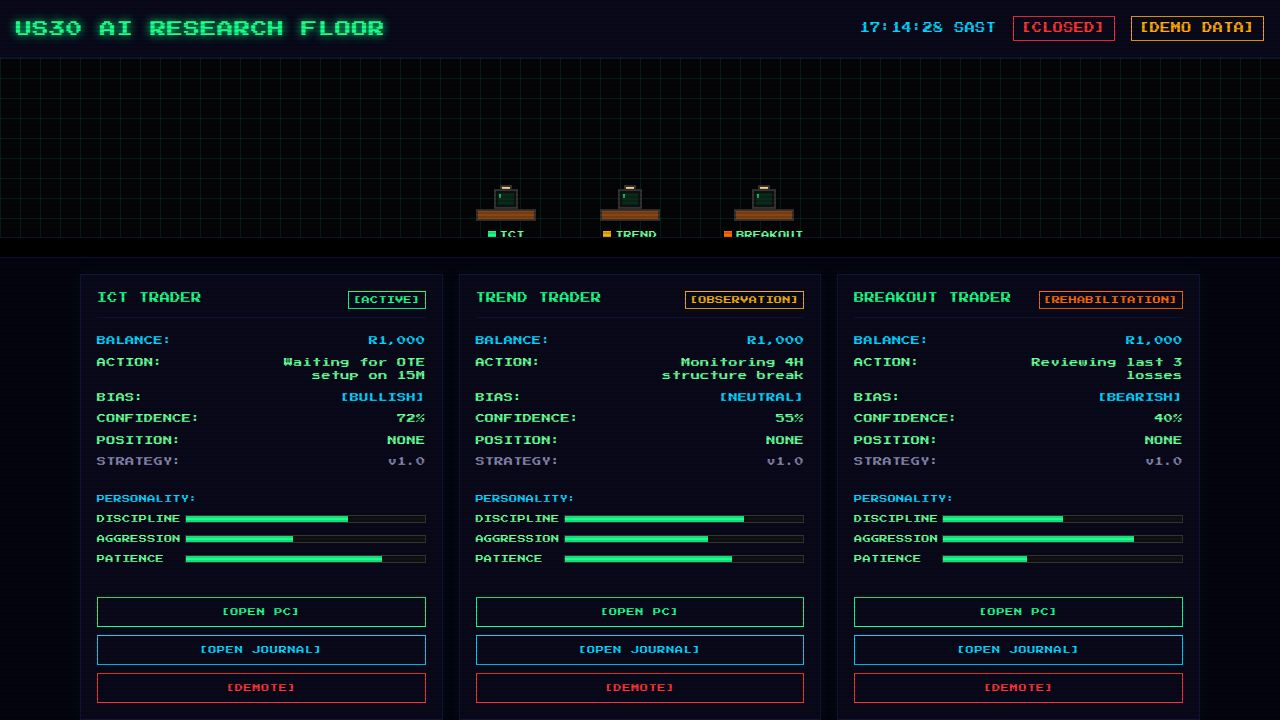
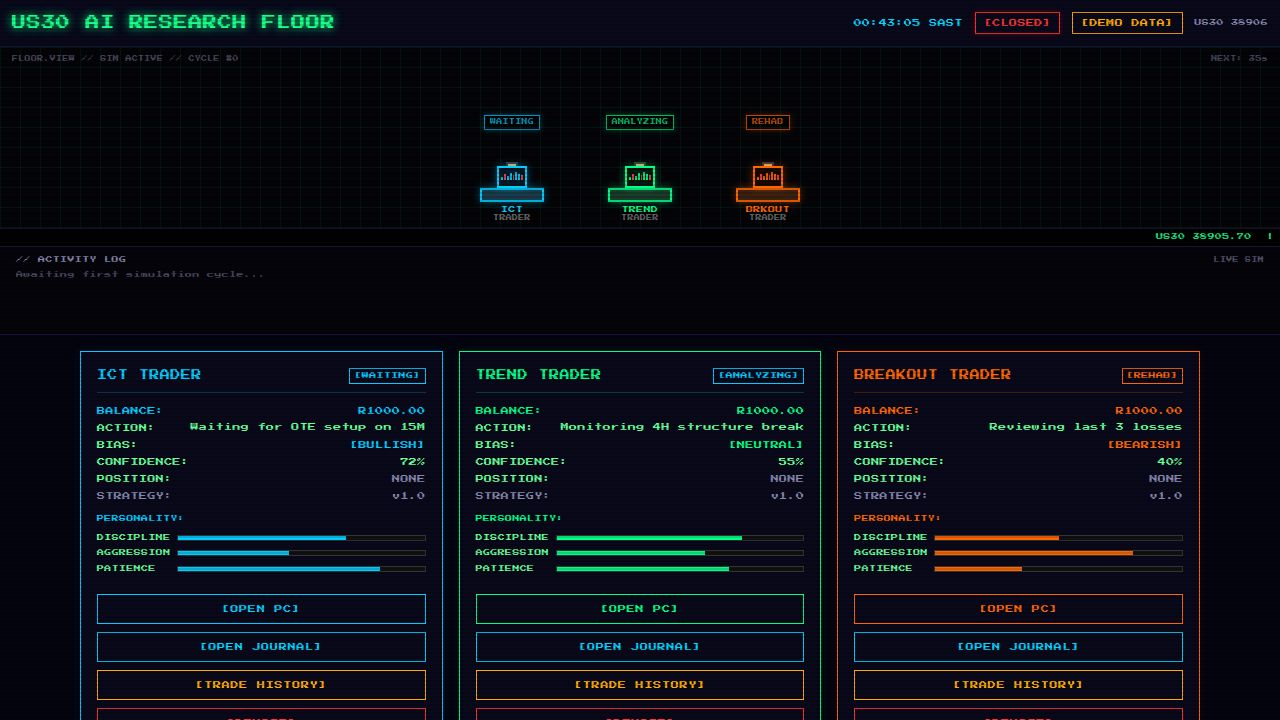
Add research projects and journal viewing capabilities to the trading floor
Integrates JournalView component and PCView research projects section into TradingFloor.tsx, displaying detailed trading journal data and active research projects.

Replit-Commit-Author: Agent
Replit-Commit-Session-Id: b2ac5ef5-fd12-4802-8eca-5d819f8d25d6
Replit-Commit-Checkpoint-Type: full_checkpoint
Replit-Commit-Event-Id: 422dc7c0-a845-4620-95e2-6f11efb667f6
Replit-Commit-Screenshot-Url: https://storage.googleapis.com/screenshot-production-us-central1/ea6e221a-9817-4e36-8b2e-70dde3cb9902/b2ac5ef5-fd12-4802-8eca-5d819f8d25d6/9L58amP
Replit-Helium-Checkpoint-Created: true

diff --git a/artifacts/us30-research-floor/src/pages/TradingFloor.tsx b/artifacts/us30-research-floor/src/pages/TradingFloor.tsx
@@ -321,6 +321,217 @@ function PCView({ trader, accent }: { trader: TraderState; accent: string }) {
         )}
       </PCSection>
 
+      {/* ── Research Projects ────────────────────────────── */}
+      <PCSection title={`// RESEARCH PROJECTS (${trader.researchProjects.length})`} accent={accent} defaultOpen={false}>
+        {trader.researchProjects.length === 0 ? (
+          <div className="text-muted-foreground">No active research.</div>
+        ) : (
+          trader.researchProjects.map((rp) => (
+            <div key={rp.id} className="flex flex-col gap-1 pb-3 mb-2 border-b" style={{ borderColor: accent + "22" }}>
+              <div>
+                <span className="text-muted-foreground">Q: </span>
+                <span className="opacity-90">{rp.question}</span>
+              </div>
+              <div>
+                <span className="text-muted-foreground">REASON: </span>
+                <span className="opacity-85">{rp.reason}</span>
+              </div>
+              <div className="flex flex-wrap gap-x-3">
+                <span>
+                  <span className="text-muted-foreground">STATUS: </span>
+                  <span style={{ color: rp.status === "COMPLETE" ? "#00ff88" : rp.status === "REJECTED" ? "#ff4444" : "#ffcc00" }}>
+                    {rp.status}
+                  </span>
+                </span>
+                <span><span className="text-muted-foreground">PROGRESS: </span>{rp.progress}%</span>
+                <span><span className="text-muted-foreground">TRADES REVIEWED: </span>{rp.tradesReviewed}</span>
+              </div>
+              <div className="w-full h-[6px] border" style={{ borderColor: accent + "55" }}>
+                <div className="h-full" style={{ width: `${rp.progress}%`, backgroundColor: accent }} />
+              </div>
+              <div className="mt-1">
+                <span className="text-muted-foreground">FINDINGS: </span>
+                <span className="opacity-85">{rp.currentFindings}</span>
+              </div>
+              <div>
+                <span className="text-muted-foreground">PROPOSED CHANGE: </span>
+                <span className="opacity-90">{rp.proposedStrategyChange}</span>
+              </div>
+            </div>
+          ))
+        )}
+      </PCSection>
+
+      {/* ── Cursor ───────────────────────────────────────── */}
+      <div className="mt-3 flex items-center gap-1">
+        <span>&gt;</span>
+        <span className="inline-block" style={{ width: 6, height: 12, backgroundColor: accent, animation: "cursorBlink 1s step-end infinite" }} />
+      </div>
+    </div>
+  );
+}
+
+function JournalView({ trader, accent }: { trader: TraderState; accent: string }) {
+  const [tab, setTab] = useState<"SUMMARY" | "TRADES" | "LESSONS" | "MISTAKES" | "IMPROVEMENTS">("SUMMARY");
+  const journal = trader.journal;
+  const losses = trader.lossProtocol;
+  const tabs: Array<typeof tab> = ["SUMMARY", "TRADES", "LESSONS", "MISTAKES", "IMPROVEMENTS"];
+
+  const wins = journal.filter((j) => j.outcome === "WIN").length;
+  const lossCount = journal.filter((j) => j.outcome === "LOSS").length;
+  const winRate = journal.length > 0 ? Math.round((wins / journal.length) * 100) : 0;
+  const totalPL = journal.reduce((sum, j) => sum + j.balanceChange, 0);
+  const activeResearch = trader.researchProjects.filter((p) => p.status === "ACTIVE");
+
+  return (
+    <div className="flex flex-col gap-0 font-mono text-[7px]" style={{ color: accent }}>
+      {/* ── Tab bar ──────────────────────────────────────── */}
+      <div className="flex flex-wrap gap-1 pb-3 mb-3 border-b" style={{ borderColor: accent + "44" }}>
+        {tabs.map((t) => (
+          <button
+            key={t}
+            onClick={() => setTab(t)}
+            className="px-2 py-1 text-[7px]"
+            style={{
+              border: `1px solid ${tab === t ? accent : accent + "44"}`,
+              color: tab === t ? accent : "#666",
+              backgroundColor: tab === t ? accent + "20" : "transparent",
+            }}
+          >
+            {t}
+          </button>
+        ))}
+      </div>
+
+      {/* ── SUMMARY ──────────────────────────────────────── */}
+      {tab === "SUMMARY" && (
+        <div className="flex flex-col gap-4">
+          <div className="border p-3 flex flex-col gap-2" style={{ borderColor: accent + "44", backgroundColor: accent + "0a" }}>
+            <div className="text-muted-foreground mb-1">SESSION STATS</div>
+            <div className="grid grid-cols-2 gap-x-3 gap-y-2">
+              <div><span className="text-muted-foreground">TRADES LOGGED: </span>{journal.length}</div>
+              <div><span className="text-muted-foreground">WIN RATE: </span>{winRate}%</div>
+              <div><span className="text-muted-foreground">WINS: </span><span style={{ color: "#00ff88" }}>{wins}</span></div>
+              <div><span className="text-muted-foreground">LOSSES: </span><span style={{ color: "#ff4444" }}>{lossCount}</span></div>
+              <div><span className="text-muted-foreground">TOTAL P/L: </span><span style={{ color: totalPL >= 0 ? "#00ff88" : "#ff4444" }}>{fmtPL(totalPL)}</span></div>
+              <div><span className="text-muted-foreground">BALANCE: </span>{fmtBal(trader.balance)}</div>
+            </div>
+          </div>
+          <div>
+            <div className="text-muted-foreground mb-1">CURRENT BIAS &amp; FOCUS</div>
+            <div>Bias: <span style={{ color: trader.bias === "Bullish" ? "#00ff88" : trader.bias === "Bearish" ? "#ff4444" : "#ffcc00" }}>{trader.bias.toUpperCase()}</span> ({trader.confidence}% confidence)</div>
+            <div className="opacity-85 mt-1">Strategy focus: {trader.strategyFocus}</div>
+          </div>
+          <div>
+            <div className="text-muted-foreground mb-1">ACTIVE RESEARCH ({activeResearch.length})</div>
+            {activeResearch.length === 0 ? (
+              <div className="text-muted-foreground">No active research projects.</div>
+            ) : (
+              activeResearch.map((rp) => (
+                <div key={rp.id} className="mb-2 opacity-90">
+                  <div>{rp.question}</div>
+                  <div className="w-full h-[5px] border mt-1" style={{ borderColor: accent + "55" }}>
+                    <div className="h-full" style={{ width: `${rp.progress}%`, backgroundColor: accent }} />
+                  </div>
+                  <div className="text-muted-foreground mt-1">{rp.progress}% complete — {rp.tradesReviewed} trades reviewed</div>
+                </div>
+              ))
+            )}
+          </div>
+          {journal.length === 0 && (
+            <div className="text-muted-foreground">No trades closed yet. Journal will populate as trades complete.</div>
+          )}
+        </div>
+      )}
+
+      {/* ── TRADES ───────────────────────────────────────── */}
+      {tab === "TRADES" && (
+        <div className="flex flex-col gap-3">
+          {journal.length === 0 ? (
+            <div className="text-muted-foreground">No trade entries yet. Waiting for the first closed trade.</div>
+          ) : (
+            journal.map((j) => (
+              <div key={j.tradeNumber} className="border p-3 flex flex-col gap-1" style={{ borderColor: accent + "33" }}>
+                <div className="flex justify-between">
+                  <span>
+                    <span className="text-muted-foreground">#{j.tradeNumber} </span>
+                    <span style={{ color: j.direction === "BUY" ? "#00ff88" : "#ff4444" }} className="font-bold">{j.direction}</span>
+                    <span className="text-muted-foreground"> @ </span>{j.entryPrice.toFixed(0)} → {j.exitPrice.toFixed(0)}
+                  </span>
+                  <span style={{ color: j.outcome === "WIN" ? "#00ff88" : j.outcome === "LOSS" ? "#ff4444" : "#ffcc00" }}>
+                    {j.outcome} {j.rMultiple >= 0 ? "+" : ""}{j.rMultiple.toFixed(1)}R
+                  </span>
+                </div>
+                <div className="text-muted-foreground">{j.entryTimeSAST} SAST</div>
+                <div><span className="text-muted-foreground">ENTRY REASON: </span><span className="opacity-85">{j.entryReason}</span></div>
+                <div><span className="text-muted-foreground">EXIT REASON: </span><span className="opacity-85">{j.exitReason}</span></div>
+                <div><span className="text-muted-foreground">BALANCE CHANGE: </span><span style={{ color: j.balanceChange >= 0 ? "#00ff88" : "#ff4444" }}>{fmtPL(j.balanceChange)}</span></div>
+                <div><span className="text-muted-foreground">MARKET CONTEXT: </span><span className="opacity-80">{j.marketContext}</span></div>
+                <div><span className="text-muted-foreground">TFs REVIEWED: </span>{j.timeframesReviewed.join(", ")}</div>
+                {j.mistakes && <div><span className="text-muted-foreground">MISTAKES: </span><span style={{ color: "#ff4444" }}>{j.mistakes}</span></div>}
+                <div><span className="text-muted-foreground">LESSON: </span><span className="opacity-90">{j.lessonLearned}</span></div>
+                <div><span className="text-muted-foreground">IMPROVEMENT: </span><span className="opacity-90">{j.proposedImprovement}</span></div>
+              </div>
+            ))
+          )}
+        </div>
+      )}
+
+      {/* ── LESSONS ──────────────────────────────────────── */}
+      {tab === "LESSONS" && (
+        <div className="flex flex-col gap-2">
+          {journal.length === 0 ? (
+            <div className="text-muted-foreground">No lessons logged yet.</div>
+          ) : (
+            journal.map((j) => (
+              <div key={j.tradeNumber} className="flex gap-2 items-baseline">
+                <span className="text-muted-foreground shrink-0">#{j.tradeNumber}</span>
+                <span className="opacity-90">{j.lessonLearned}</span>
+              </div>
+            ))
+          )}
+        </div>
+      )}
+
+      {/* ── MISTAKES ─────────────────────────────────────── */}
+      {tab === "MISTAKES" && (
+        <div className="flex flex-col gap-3">
+          {losses.length === 0 ? (
+            <div className="text-muted-foreground">No losses recorded yet — no mistakes to review.</div>
+          ) : (
+            losses.map((lp) => (
+              <div key={lp.tradeNumber} className="border p-3 flex flex-col gap-1" style={{ borderColor: "#ff444444" }}>
+                <div className="flex justify-between">
+                  <span className="text-muted-foreground">#{lp.tradeNumber} LOSS PROTOCOL</span>
+                  <span className="text-muted-foreground">{lp.timestamp}</span>
+                </div>
+                <div style={{ color: "#ff4444" }}>{lp.lossDescription}</div>
+                <div><span className="text-muted-foreground">WHY: </span><span className="opacity-85">{lp.whyItHappened}</span></div>
+                <div><span className="text-muted-foreground">LESSON: </span><span className="opacity-90">{lp.lessonLearned}</span></div>
+                <div><span className="text-muted-foreground">IMPROVEMENT: </span><span className="opacity-90">{lp.proposedImprovement}</span></div>
+                <div><span className="text-muted-foreground">FUTURE TEST: </span><span className="opacity-80">{lp.futureTestIdea}</span></div>
+              </div>
+            ))
+          )}
+        </div>
+      )}
+
+      {/* ── IMPROVEMENTS ─────────────────────────────────── */}
+      {tab === "IMPROVEMENTS" && (
+        <div className="flex flex-col gap-2">
+          {journal.length === 0 ? (
+            <div className="text-muted-foreground">No improvements logged yet.</div>
+          ) : (
+            journal.map((j) => (
+              <div key={j.tradeNumber} className="flex gap-2 items-baseline">
+                <span className="text-muted-foreground shrink-0">#{j.tradeNumber}</span>
+                <span className="opacity-90">{j.proposedImprovement}</span>
+              </div>
+            ))
+          )}
+        </div>
+      )}
+
       {/* ── Cursor ───────────────────────────────────────── */}
       <div className="mt-3 flex items-center gap-1">
         <span>&gt;</span>
@@ -695,46 +906,12 @@ export default function TradingFloor() {
               )}
 
               {/* ── Journal ──────────────────────────────────────────────── */}
-              {activeModal.type === "journal" && activeTrader && (() => {
-                const cfg = TRADER_CONFIG[activeTrader.id];
-                const today = new Date().toLocaleDateString("en-ZA", { timeZone: "Africa/Johannesburg" });
-                return (
-                  <div className="flex flex-col gap-5" style={{ color: cfg.accent }}>
-                    <div>
-                      <div className="text-secondary">[{today}] Entry {String(1 + (activeTrader.closedTrades.length)).padStart(3, "0")}</div>
-                      <div className="text-[#222]">{"─".repeat(32)}</div>
-                      <div>Session started. Current bias: {activeTrader.bias.toUpperCase()}.</div>
-                      <div>Confidence: {activeTrader.confidence}%.</div>
-                      <div>Strategy focus: {activeTrader.strategyFocus}.</div>
-                      <div>{activeTrader.currentAction}.</div>
-                    </div>
-                    {activeTrader.closedTrades.slice(0, 3).map((t, i) => (
-                      <div key={i}>
-                        <div className="text-secondary">[{today}] Trade Log #{i + 1}</div>
-                        <div className="text-[#222]">{"─".repeat(32)}</div>
-                        <div>{t.direction} @ {t.entryPrice.toFixed(0)} → {t.exitPrice.toFixed(0)}</div>
-                        <div style={{ color: t.result >= 0 ? "#00ff88" : "#ff4444" }}>
-                          Result: {t.rMultiple >= 0 ? "+" : ""}{t.rMultiple.toFixed(1)}R ({fmtPL(t.result)})
-                        </div>
-                        <div className="text-muted-foreground">Reason: {t.reason}</div>
-                      </div>
-                    ))}
-                    {activeTrader.closedTrades.length === 0 && (
-                      <div>
-                        <div className="text-secondary">[{today}] Entry 001</div>
-                        <div className="text-[#222]">{"─".repeat(32)}</div>
-                        <div>No trades taken yet. Observing structure.</div>
-                        <div>Focus area: patience and entry timing.</div>
-                        <div>Next session target: clean execution.</div>
-                        <div>Risk limit: 1% per trade.</div>
-                      </div>
-                    )}
-                    <div>
-                      <div className="text-muted-foreground">[NOTE] {activeTrader.internalReasoning}</div>
-                    </div>
-                  </div>
-                );
-              })()}
+              {activeModal.type === "journal" && activeTrader && (
+                <JournalView
+                  trader={activeTrader}
+                  accent={TRADER_CONFIG[activeTrader.id].accent}
+                />
+              )}
 
               {/* ── Chat ─────────────────────────────────────────────────── */}
               {activeModal.type === "chat" && (